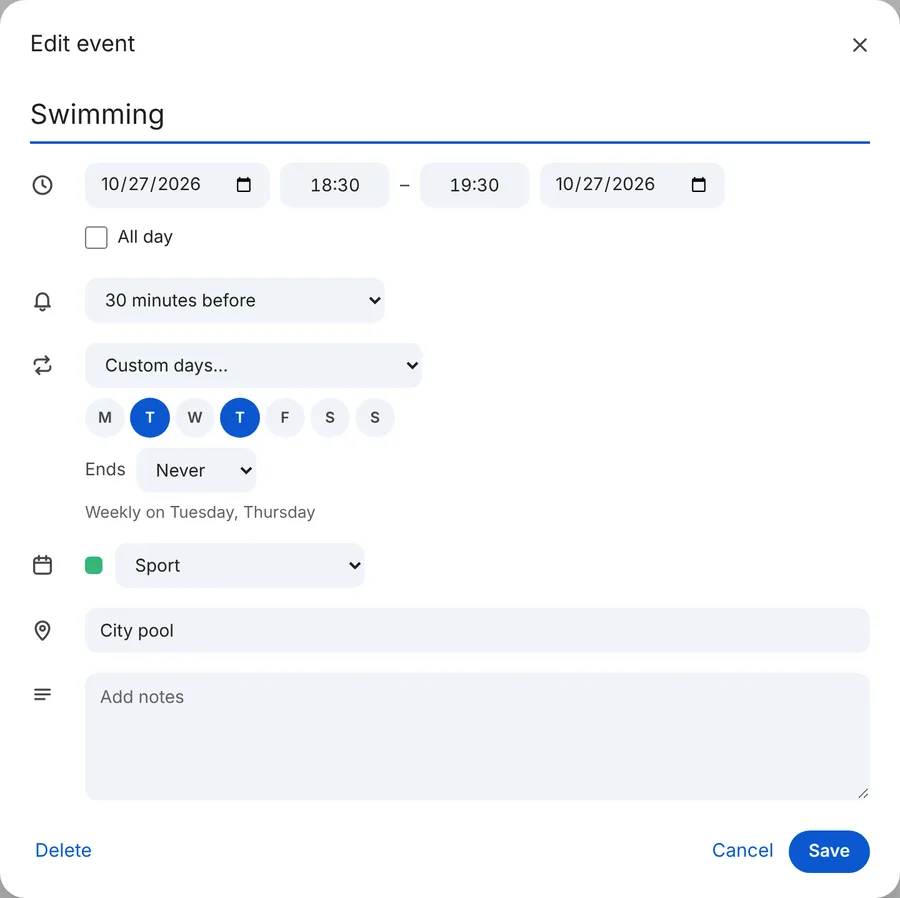
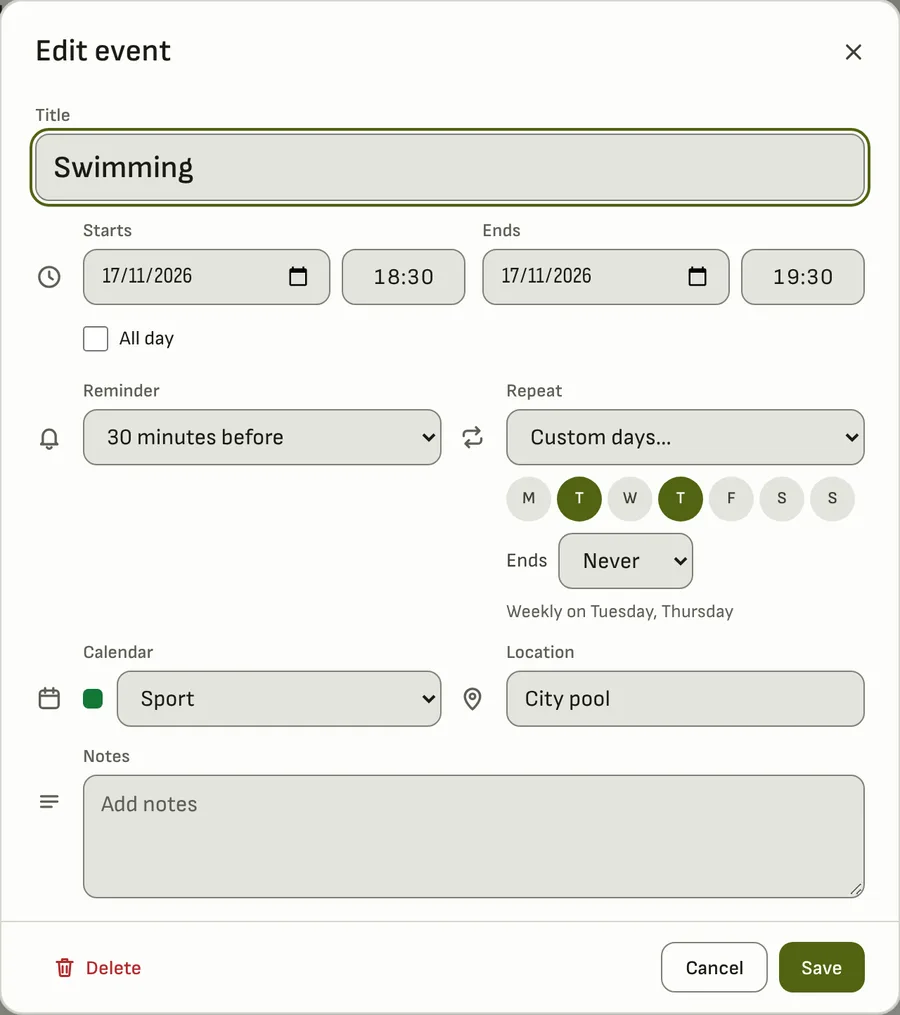
Docs: retake the README images in the redesign's look and refresh the README and docs
The five images were taken on 2026-10-31, before brief 05 gave the app its
own look. All five are retaken on 2026-11-16 from the demo seed on a scratch
server, and phone-week.webp is new: the phone's week strip and bottom bar sit
beside the phone month. shots.md records the new run, the en-GB browser
language that gives the form day-first dates, and how to run on other ports.

README: the hero, captions and alt text describe the new screens; the status
names notifications, the redesign and the feed, still undeployed; the theme
switch replaces the old "no dark mode"; the phone bullet names the week strip
and bottom bar; `npm ci` replaces `npm install`; the diagram adds the feed;
scripts/ and vendor/ join the layout table; web/DESIGN.md is linked.

docs/: getting-started adds `npm run check`, the Playwright tests and
E2E_PORT, REMINDER_TIMER, that the environment wins over .env, and the two
halves on other ports. architecture drops the single store for the feature
folders and adds the calendar feed. owner-setup no longer says reminders are
unbuilt. The index lists the design record and the feed page. Nothing moved
between files.

Claude-Session: https://claude.ai/code/session_01RnCo6KceG18CeLXhzKq2En

diff --git a/README.md b/README.md
@@ -3,71 +3,74 @@
 A self-hosted calendar that works like Google Calendar, for one person or a few people who each keep their own private calendars.
 
 <p align="center">
-  <img src="docs/images/hero.webp" width="100%" alt="Almanac's month view for October 2026: a top bar with Today, the arrows and a Day, Week, Month, Year switcher; a left column with a Create button, a mini-month and four calendars (Personal, Work, Sport, Birthdays); and a month grid filled with coloured events such as Team stand-up, Swimming and a three-day Conference">
+  <img src="docs/images/hero.webp" width="100%" alt="Almanac's month view for November 2026: a header band with Today, the arrows, search and a Day, Week, Month, Year switch; a left column with a green Create button, a mini-month, four calendars (Personal, Work, Sport, Birthdays) and today's list with a red line at the current time; and a month grid filled with coloured events such as Team stand-up, Swimming and a three-day Conference">
 </p>
 
-**Status:** Personal project. Version 1 is built and reviewed and runs locally. It is not deployed yet.
+**Status:** Personal project. Version 1, notifications, the redesign (2026-11-13) and the calendar feed are built and run locally. Nothing is deployed yet, so no real phone has shown a notification or read the feed.
 
 ## What it does
 
-- Shows your schedule by day, week, month or year. Month opens first, weeks start on Monday and times use a 24-hour clock.
+- Shows your schedule by day, week, month or year. Month opens first, weeks start on Monday and times use a 24-hour clock. The keyboard shortcuts are Google's: `c`, `t`, `d` `w` `m` `y`, the arrow keys and `/`.
 - Creates an event when you click or drag across empty time. Drag an event to move it, or drag its bottom edge to change its length.
 - Repeats events daily, every weekday, weekly on the days you pick, monthly or yearly. Changing one occurrence asks whether the change is for this event, this and following, or all events.
 - Keeps events in named, coloured calendars you can show or hide one at a time, and finds them by title, location or notes.
 - Shows every time in one display time zone you choose (Europe/Bucharest to start), whatever zone the device is in.
 - Reminds you before an event with a push notification on your phone or desktop browser, from 1 day to the start time, once you turn Notifications on in the account menu.
 - Shows your events in your phone's own calendar app through a private, read-only link (with ICSx⁵ on Android), once you turn on Calendar feed in the account menu.
-- Fits a phone screen and can be added to its home screen. The keyboard shortcuts are Google's: `c`, `t`, `d` `w` `m` `y`, the arrow keys and `/`.
+- Fits a phone. Week becomes a strip of seven days over a list of that week's events, a bar at the bottom switches views, and the app can go on the home screen. Theme… in the account menu picks light, dark or the device's setting.
 
-Google Calendar does all of this. Almanac keeps the layout and the habits but runs on your own server, and each user sees only their own calendars. There is no sharing and no sign-up page. The only accounts are the ones you create with the seed or let in through Ward. It has no import, guests, attachments, dark mode or offline use, so you type every event in. Reminders need the server's VAPID keys, made with one command.
+Google Calendar does all of this. Almanac keeps Google's layout and habits in a look of its own (olive greys, raised cards, one moss-green accent), runs on your own server, and shows each user only their own calendars. There is no sharing and no sign-up page. The only accounts are the ones you create with the seed or let in through Ward. It has no import, guests, attachments or offline use, so you type every event in. Reminders need the server's VAPID keys, made with one command.
 
 ## Screenshots
 
-| The week, with a line at the current time | The year, with a dot on each day that has events |
+| The week, with the time now marked in the grid and in today's list | The year, with a dot under each day that has events |
 |---|---|
-| ![Week view for 26 October to 1 November: stand-ups, a product demo, swimming on Tuesday and Thursday, a farmers' market on Saturday, and a red line marking the current time on Saturday evening](docs/images/week.webp) | ![Year view: twelve mini-months for 2026, with blue dots under the days that have events and today circled](docs/images/year.webp) |
+| ![Week view for 16 to 22 November 2026: Monday shaded as today with a red 08:58 chip near the top of the grid, solid coloured blocks for stand-ups, a product demo, the release notes, swimming on Tuesday and Thursday, and a farmers' market beside a piano lesson on Saturday; the left column lists Monday's two events under the same red line](docs/images/week.webp) | ![Year view: twelve mini-months for 2026, with a small dot under each day that has events and 16 November filled in green](docs/images/year.webp) |
 
-| Editing a repeating event, with a reminder | On a phone |
+| Editing a repeating event, with a reminder | On a phone: the week and the month |
 |---|---|
-| <img src="docs/images/event-form.webp" width="420" alt="The Edit event form for Swimming: date and time fields, a repeat set to custom days with Tuesday and Thursday picked, 'Weekly on Tuesday, Thursday' spelled out, the Sport calendar and the location City pool, with a reminder 30 minutes before"> | <img src="docs/images/phone-month.webp" width="220" alt="The month view on a phone: a compact top bar with a view menu, the same October grid with shortened event names, and a round Create button in the corner"> |
+| <img src="docs/images/event-form.webp" width="420" alt="The Edit event form for Swimming, with a label over each field: 17/11/2026 from 18:30 to 19:30, a reminder 30 minutes before, a repeat on custom days with Tuesday and Thursday picked and 'Weekly on Tuesday, Thursday' spelled out, the Sport calendar and the location City pool"> | <img src="docs/images/phone-week.webp" width="190" alt="The week on a phone: a strip of seven day chips with a coloured tick per event and Monday 16 chosen, over a card per day listing its events with times and places, a floating Create button and a bottom bar with Day, Week, Month and Year"> <img src="docs/images/phone-month.webp" width="190" alt="The month on a phone: the November grid with shortened event names, the Create button and the bottom bar with Month chosen"> |
 
 The screens show a made-up `demo` account. How each image was made: [docs/images/shots.md](docs/images/shots.md).
 
 ## How it works
 
-Three npm workspaces. `shared` holds the zod schemas for every route, the repeat presets and the date helpers, and both other parts import it. `server` is a Fastify API on SQLite. It stores a repeating event once, as a series with an RRULE, and expands it into occurrences with rrule-temporal for whatever range a view asks for. `web` is the React app. FullCalendar v7 draws the day, week and month views, and the year view is Almanac's own. You sign in with a local account, or with Ward, the sign-in service the owner's other apps share.
+Three npm workspaces. `shared` holds the zod schemas for every route, the repeat presets and the date helpers, and both other parts import it. `server` is a Fastify API on SQLite. It stores a repeating event once, as a series with an RRULE, and expands it into occurrences with rrule-temporal for whatever range a view asks for. `web` is the React app, styled with Tailwind. FullCalendar v7 draws the day, week and month views; the year view and the phone's week list are Almanac's own. You sign in with a local account, or with Ward, the sign-in service the owner's other apps share. A phone's calendar app reads the calendar feed without signing in, because the secret is in the link.
 
 ```mermaid
 flowchart LR
   web["web/<br/>React + FullCalendar"] -- "/almanac-api/*" --> api["server/<br/>Fastify"]
+  phone["Phone's calendar app"] -. "calendar feed (.ics)" .-> api
   api --> db[("SQLite<br/>one file")]
   api -. "Sign in with Ward (optional)" .-> ward["Ward"]
   shared["shared/<br/>zod schemas, repeat presets"] -.- web
   shared -.- api
 ```
 
-More in [docs/architecture.md](docs/architecture.md).
+More in [docs/architecture.md](docs/architecture.md). The look and its tokens are in [web/DESIGN.md](web/DESIGN.md).
 
 ## Run it locally
 
 Requires Node 24 or later and npm.
 
 ```bash
-npm install
+npm ci
 cp .env.example .env              # optional, the defaults work
 npm run seed -w @almanac/server   # asks for a username and password
 npm run dev
 ```
 
-Then open <http://localhost:5177/almanac/> and sign in with the account the seed created. Env vars, tests, the Ward button and a fix for `ENOSPC` errors: [docs/getting-started.md](docs/getting-started.md).
+Then open <http://localhost:5177/almanac/> and sign in with the account the seed created. Env vars, tests, other ports, the Ward button and a fix for `ENOSPC` errors: [docs/getting-started.md](docs/getting-started.md).
 
 ## Project layout
 
 | Path | What lives there |
 |---|---|
 | `shared/` | zod schemas for every route, the repeat presets, date helpers |
-| `server/` | Fastify API, SQLite store, repeat expansion, the vendored Ward auth library |
-| `web/` | React app, served under `/almanac/` |
+| `server/` | Fastify API grouped by feature, SQLite store, repeat expansion, the vendored Ward auth library |
+| `web/` | React app, served under `/almanac/`, with its design record and Playwright specs |
+| `scripts/` | The contrast check over both themes' colours, the changed-files lint behind `npm run check:fast`, and the exceptions the convention checks accept |
+| `vendor/` | A generated copy of the shared house style: ESLint, Prettier, knip and TypeScript configs and the convention checkers |
 | `infrastructure/` | Dockerfile and compose file for the API container |
 | `corpus/` | Project wiki, decisions and the numbered briefs |
 | `docs/` | Setup, architecture, the owner's deploy steps and the images here |
@@ -75,6 +78,7 @@ Then open <http://localhost:5177/almanac/> and sign in with the account the seed
 ## Docs
 
 - [docs/](docs/README.md): setup, architecture, the owner's deploy steps, and the images used here
+- [web/DESIGN.md](web/DESIGN.md): the look, with the colours, type, shapes and layout of both themes
 - [corpus/](corpus/index.md): the project wiki, with features, decisions, status and the briefs
 
 ## License

diff --git a/docs/images/shots.md b/docs/images/shots.md
@@ -3,27 +3,30 @@
 How each image was made, so the next refresh is a re-run. Re-take an image
 when the screen it shows changes.
 
-All of them come from a throwaway clone of the repo running `npm run dev`
-against a scratch `DATA_DIR`, signed in as a made-up `demo` account and filled
-by [demo-seed.mjs](demo-seed.mjs). Every event, place and name in it is
-invented. The seed places events around the week it runs in, so a new capture
-shows a different month with the same shape.
+All of them come from the repo running `npm run dev` against a scratch
+`DATA_DIR`, signed in as a made-up `demo` account and filled by
+[demo-seed.mjs](demo-seed.mjs). Every event, place and name in it is invented.
+The seed places events around the week it runs in, so a new capture shows a
+different month with the same shape.
 
 | File | Shows | How to reach that state | Viewport | Taken |
 |---|---|---|---|---|
-| hero.webp | Month view with the four calendars | Fresh seed, sign in, `/almanac/` opens on the month | 1440×900 @2x, scaled to 1600 px wide | 2026-10-31 |
-| week.webp | Week view with the current-time line | Same, press `w` | 1440×900 @2x, scaled to 1600 px | 2026-10-31 |
-| year.webp | Year view with dots on days that have events | Same, press `y` | 1440×900 @2x, scaled to 1600 px | 2026-10-31 |
-| event-form.webp | The Edit event form for the Swimming series, reminder set to 30 minutes before | Week view, click Tuesday's Swimming, then Edit event; pick "30 minutes before" in the bell field without saving; screenshot the dialog element | 1440×900 @2x, crop scaled to 900 px | 2026-10-31 |
-| phone-month.webp | Month view at phone size | `set device "iPhone 14"`, open `/almanac/month/<y>/<m>/<d>` | iPhone 14, 390×844 @3x, scaled to 780 px | 2026-10-31 |
+| hero.webp | Month view with the four calendars and today's list | Fresh seed, sign in, `/almanac/` opens on the month | 1440×900 @2x, scaled to 1600 px wide | 2026-11-16 |
+| week.webp | Week view with the now chip, today's column and today's list | Same, press `w` | 1440×900 @2x, scaled to 1600 px | 2026-11-16 |
+| year.webp | Year view with dots on days that have events | Same, press `y` | 1440×900 @2x, scaled to 1600 px | 2026-11-16 |
+| event-form.webp | The Edit event form for the Swimming series, reminder set to 30 minutes before | Week view, click Tuesday's Swimming, then Edit; pick "30 minutes before" under Reminder without saving; screenshot the `[role="dialog"]` element | 1440×900 @2x, crop scaled to 900 px | 2026-11-16 |
+| phone-week.webp | The phone's week strip over the week's list, with the bottom bar and Create | `iPhone 14` device, sign in, open `/almanac/week/<y>/<m>/<d>` | iPhone 14, 390×664 @3x, scaled to 780 px | 2026-11-16 |
+| phone-month.webp | Month view at phone size | Same device, `/almanac/` opens on the month | iPhone 14, 390×664 @3x, scaled to 780 px | 2026-11-16 |
 
-Take the week view in the evening if you want the current-time line inside
-the first screen; it scrolls to 08:00.
+The week view opens scrolled to 08:00 and reaches 23:00 in a 900 px tall
+window, so take it between those hours to have the now chip on screen.
+
+All six show the light theme, which a first visit gets.
 
 ## Demo data
 
-1. Clone the repo somewhere outside your working copy and run `npm ci` there.
-   Leave out `.env`, or copy `.env.example`, so no Ward values are read.
+1. In a checkout with `npm ci` done, leave out `.env`, or copy
+   `.env.example`, so no Ward values are read.
 2. Create the account with the password only in the environment, then start
    the app on a scratch data folder:
 
@@ -34,6 +37,12 @@ the first screen; it scrolls to 08:00.
    npm run dev
    ```
 
+   On 2026-11-16 the app ran on other ports (API 6101, Vite 6100), started
+   as two halves the way
+   [getting-started.md](../getting-started.md#common-problems) shows, and
+   the password was a random value made with `openssl rand -hex 12` in the
+   environment.
+
 3. From another terminal, with the same `ALMANAC_PASSWORD`:
 
    ```bash
@@ -42,17 +51,27 @@ the first screen; it scrolls to 08:00.
 
    It adds Work, Sport and Birthdays beside Personal, four repeating events,
    four yearly birthdays and about two dozen one-off events, and prints how
-   many it made.
+   many it made. Give it the API's address as an argument when the API is not
+   on 8809 (`http://127.0.0.1:6101` on 2026-11-16).
 
 ## Capture method
 
-- Browser: on 2026-10-31, Playwright with Chrome, a 1440×900 @2x context for
-  desktop and the `iPhone 14` device for the phone, time zone Europe/Bucharest;
-  earlier, `agent-browser --session almanac-readme` with the same sizes. Sign in through the login page once; the session cookie
-  carries over.
+- Browser: on 2026-11-16, Playwright's Chromium from a script outside the
+  repo, a 1440×900 @2x context for desktop and the `iPhone 14` device for the
+  phone, time zone Europe/Bucharest, locale en-GB, light colour scheme.
+  Chromium ran with `--lang=en-GB` and `LANG=en_GB.UTF-8` in its environment,
+  so the form's date fields read 17/11/2026, not 11/17/2026. Sign in through
+  the login page once per context; the session cookie carries over. Captures
+  up to 2026-10-31 used the same sizes, from Playwright or
+  `agent-browser --session almanac-readme`.
+- The shortcuts reach the app only once focus leaves the sign-in form: click
+  the empty page ground first.
 - Stills: PNG to WebP with
   `ffmpeg -i in.png -vf scale=1600:-1:flags=lanczos -c:v libwebp -quality 82 out.webp`
   (780 for the phone). The form is a screenshot of the
   `[role="dialog"]` element, scaled with `-vf scale=900:-1:flags=lanczos`.
 - Close the event form with Cancel or Escape after the capture, so nothing in
   the scratch data changes.
+- `web/e2e/shots.spec.ts` (`SHOTS_DIR=<folder> npx playwright test shots`)
+  takes the design board's captures from stubbed fixtures. These README images
+  come from the real API and the demo seed instead.

diff --git a/docs/getting-started.md b/docs/getting-started.md
@@ -14,14 +14,17 @@ separate, hand-run step in [owner-setup.md](owner-setup.md).
 ## Install
 
 ```bash
-npm install
+npm ci
 ```
+
+This installs the exact versions in `package-lock.json`.
 
 ## Configure
 
 Copy `.env.example` to `.env`, which git ignores. The server reads it at
-start-up, and the Vite dev server reads it for the API port. Every key is
-optional; an empty value counts as not set.
+start-up, and the Vite dev server reads it for the API port. A variable
+already set in the environment wins over the file. Every key is optional; an
+empty value counts as not set.
 
 | Variable | Purpose | Default or source |
 |---|---|---|
@@ -34,6 +37,7 @@ optional; an empty value counts as not set.
 | `AUTH_TRUSTED_PROXIES` | Peers besides loopback whose `X-Forwarded-For` the login lockout believes. Empty is right locally | empty |
 | `WARD_OIDC_ISSUER`, `WARD_OIDC_CLIENT_ID`, `WARD_OIDC_CLIENT_KEY`, `WARD_OIDC_REDIRECT_URI`, `WARD_OIDC_POST_LOGOUT_REDIRECT_URI` | Optional. "Sign in with Ward". The key is a secret | Ward's local seed writes all five |
 | `VAPID_PUBLIC_KEY`, `VAPID_PRIVATE_KEY`, `VAPID_SUBJECT` | Optional. Push notifications: all three or none. The private key is a secret | `npm run vapid-keys -w @almanac/server` writes all three |
+| `REMINDER_TIMER` | `off` stops this process sending due reminders, for a second process on the same database | `on` |
 
 ## Create an account
 
@@ -96,11 +100,28 @@ added to the Home Screen first.
 ## Test, typecheck, lint, build
 
 ```bash
+npm run check       # the whole gate: typecheck, lint, format check, conventions, tests
 npm test            # vitest, every workspace
 npm run typecheck
 npm run lint
 npm run build       # tsc for shared and server, then the web app
 ```
+
+`npm run check` also runs knip, dependency-cruiser, the house style's two
+convention checkers and `npm run contrast`, which measures every text and icon
+colour pair of both themes. `npm run format` rewrites every file Prettier
+covers; Markdown stays out of it.
+
+The browser tests run headless Chromium against the Vite dev server with the
+API stubbed from a fixed week, so they need no server, database or account:
+
+```bash
+npm run test:e2e    # Playwright, in light, dark and system
+```
+
+It starts Vite on port 5177 unless one is already running there; set
+`E2E_PORT=<port>` to use another. Playwright needs its Chromium build
+installed.
 
 ## Common problems
 
@@ -114,7 +135,18 @@ npm run build       # tsc for shared and server, then the web app
 - **The server names a `VAPID_*` key.** Only some of the three are set, or the
   two keys aren't one pair. Set all three from one `npm run vapid-keys` run,
   or empty all three to run without notifications.
-- **Port 5177 is in use.** The dev server won't pick another port. Stop
-  whatever holds it.
+- **Port 5177 or 8809 is in use.** Neither half moves to a free port by
+  itself. Stop whatever holds it, or run the two halves on ports you choose.
+  Export the same values in both terminals, so the dev proxy and the server
+  agree:
+
+  ```bash
+  export PORT=6101 PUBLIC_ORIGIN=http://localhost:6100
+  npx tsc -b shared
+  npm run dev -w @almanac/server                             # terminal 1, the API
+  npm run dev -w @almanac/web -- --port 6100 --strictPort    # terminal 2, the app
+  ```
+
+  Then open <http://localhost:6100/almanac/>.
 - **The login page has no Ward button.** `WARD_OIDC_ISSUER` is not set in
   `.env`. Local accounts still work.

diff --git a/docs/architecture.md b/docs/architecture.md
@@ -2,11 +2,13 @@
 
 Almanac is three npm workspaces. `shared` holds the zod schemas for every
 route, the repeat presets and their RRULEs, and the date helpers; the other
-two import it. `server` is a Fastify API on one SQLite file (better-sqlite3).
-Its store is the only code that runs SQL, apart from the vendored Ward auth
-library, and every query filters by the signed-in user. `web` is the React
-app, served under `/almanac/`. FullCalendar v7 draws the day, week and month
-views and loads as its own chunk; the year view and search are Almanac's own.
+two import it. `server` is a Fastify API on one SQLite file (better-sqlite3),
+grouped by feature: each folder under `server/src/features/` holds its routes,
+their zod schemas and its own SQL, and every query filters by the signed-in
+user. `web` is the React app, served under `/almanac/` and styled with
+Tailwind, its look recorded in [web/DESIGN.md](../web/DESIGN.md). FullCalendar
+v7 draws the day, week and month views and loads as its own chunk; the year
+view, the phone's week list and search are Almanac's own.
 In production Caddy serves the web app and forwards `/almanac-api/*` to the
 API container with the prefix stripped, so the server's own routes are
 `/api/*` and `/auth/*`. In development Vite does the same.
@@ -15,6 +17,7 @@ API container with the prefix stripped, so the server's own routes are
 flowchart LR
   subgraph device["Phone or laptop"]
     web["Almanac web app<br/>/almanac/"]
+    ics["Phone's calendar app"]
   end
   subgraph vps["VPS"]
     caddy["Caddy"]
@@ -23,6 +26,7 @@ flowchart LR
     ward["Ward"]
   end
   web -- "/almanac-api/* with the session cookie" --> caddy
+  ics -. "the feed link, no cookie" .-> caddy
   caddy --> api
   api --> db
   api -. "Sign in with Ward (OpenID Connect)" .-> ward
@@ -51,12 +55,25 @@ one from it. "All events" changes the series row. The details, and what
 happens to existing exceptions, are in
 [corpus/wiki/recurrence.md](../corpus/wiki/recurrence.md).
 
+## The calendar feed
+
+A phone's calendar app (ICSx⁵ on Android) fetches
+`GET /api/feed/<token>/almanac.ics` on its own schedule. The token in the path
+is the only credential: the route needs no session, the server keeps only the
+token's SHA-256, and it answers 30 fetches a minute per address. The reply is
+every calendar of that user as one iCalendar file: one-offs in UTC, series in
+their own zone with their RRULE, deleted dates and changed occurrences, and no
+alarms. Details in
+[corpus/wiki/calendar-feed.md](../corpus/wiki/calendar-feed.md).
+
 ## Read more
 
 - [corpus/wiki/architecture.md](../corpus/wiki/architecture.md): the routes,
   request paths, ports, data and secrets
 - [corpus/wiki/recurrence.md](../corpus/wiki/recurrence.md): presets,
   storage, expansion and edit scopes
+- [corpus/wiki/web-app.md](../corpus/wiki/web-app.md): the router, the data
+  layer, the shell at three widths and how FullCalendar is wired
 - [corpus/wiki/data-model.md](../corpus/wiki/data-model.md): the tables
 - [corpus/wiki/decisions.md](../corpus/wiki/decisions.md): what was decided
   and what was rejected

diff --git a/docs/README.md b/docs/README.md
@@ -4,13 +4,17 @@ Start with the [main README](../README.md). This folder holds what it links to.
 
 | File | What it covers |
 |---|---|
-| [getting-started.md](getting-started.md) | Local setup: prerequisites, env vars, the first account, running, tests, common problems |
-| [architecture.md](architecture.md) | How the parts fit together, and what happens when a view loads or a repeating event changes |
-| [owner-setup.md](owner-setup.md) | The owner's hand-run steps: registering in Ward, the deploy secret, the first deploy, accounts, the phone |
-| [images/](images/shots.md) | The screenshots in the README, how each was made, and the demo seed |
+| [getting-started.md](getting-started.md) | Local setup: prerequisites, env vars, the first account, running, the checks and browser tests, common problems |
+| [architecture.md](architecture.md) | How the parts fit together, what happens when a view loads or a repeating event changes, and how the calendar feed is read |
+| [owner-setup.md](owner-setup.md) | The owner's hand-run steps: registering in Ward, the deploy secret, the first deploy, accounts, the phone, notifications, the calendar feed |
+| [images/](images/shots.md) | The screenshots in the README, how each was made, and the demo seed ([demo-seed.mjs](images/demo-seed.mjs)) |
 
 Going deeper:
 
+- The look: [web/DESIGN.md](../web/DESIGN.md), with the colours, type, shapes
+  and layout of both themes, and the contrast and browser checks that test them
 - Project wiki: [corpus/](../corpus/index.md), with features, decisions, status
   and the numbered briefs
 - How repeats work: [corpus/wiki/recurrence.md](../corpus/wiki/recurrence.md)
+- How the calendar feed works:
+  [corpus/wiki/calendar-feed.md](../corpus/wiki/calendar-feed.md)

diff --git a/docs/owner-setup.md b/docs/owner-setup.md
@@ -154,8 +154,8 @@ Home Screen. The icon opens Almanac without the browser's address bar.
 ## 8. Turn on notifications
 
 Almanac can show a notification on a phone or a computer with the app closed:
-"Send a test" in the account menu's Notifications now, event reminders once
-those are built. The server signs every push with a VAPID key pair. Without
+"Send a test" in the account menu's Notifications, and a reminder before any
+event that has one. The server signs every push with a VAPID key pair. Without
 the pair it starts with notifications off and says so once in its log;
 everything else works as before.
 
